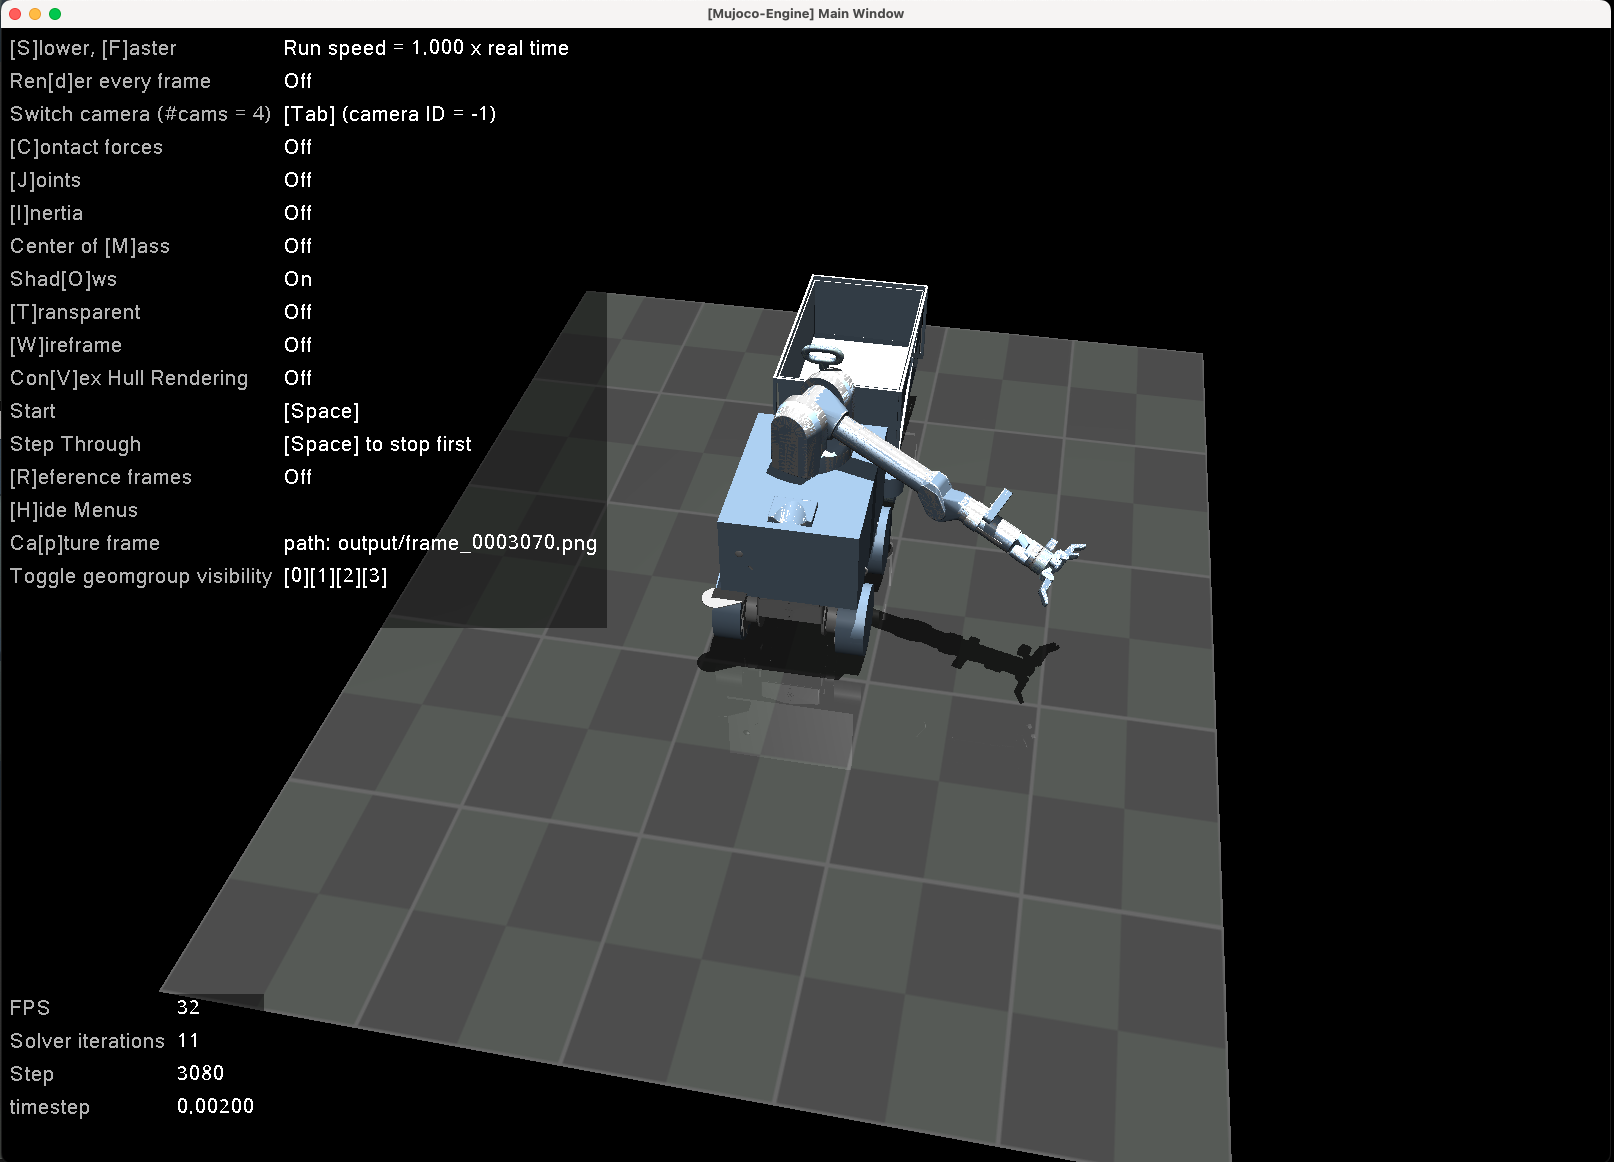
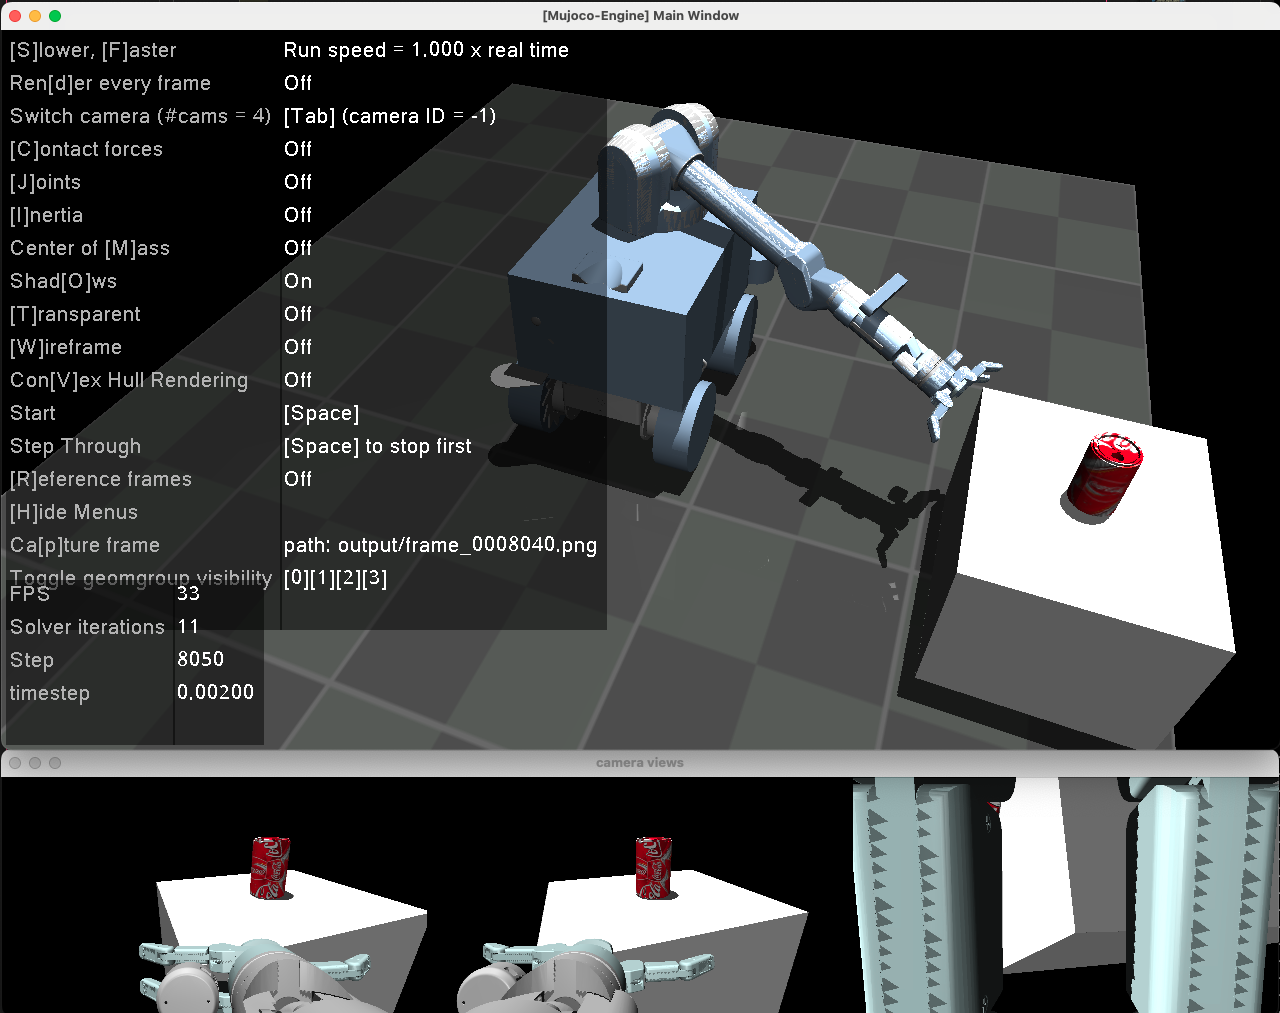
+ previewon camera view

diff --git a/src/main.py b/src/main.py
@@ -70,8 +70,8 @@ import mujoco_engine.core_engine as jx
 #===========#
 def main():
     Engine = jx.Mujoco_Engine(
-        xml_path        = "../playground/playground_mobile_wagon_manipulation.xml",
-        # xml_path        = "../playground/playground_mobile_grasping.xml",
+        # xml_path        = "../playground/playground_mobile_wagon_manipulation.xml",
+        xml_path        = "../playground/playground_mobile_grasping.xml",
         rate_Hz         = 10,
         camera_config   = None,
     )

diff --git a/README.md b/README.md
@@ -7,7 +7,7 @@ Mujoco Physics Simulation Package for Waterloo steel robot
 - [TODO: Unity Integration] for rendering and realistic camera views
 
 ## Preview:
-### Waterloo Steel Mobile Cart Manipulation Playground (engine & viewer):
+### Waterloo Steel Mobile Playground (engine & viewer):
 <img src="./documentation/main.png" alt="waterloo_steel" height="400"/>
 
 ## ToDo:
